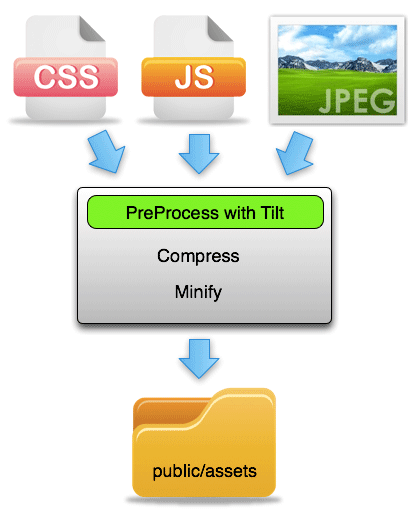
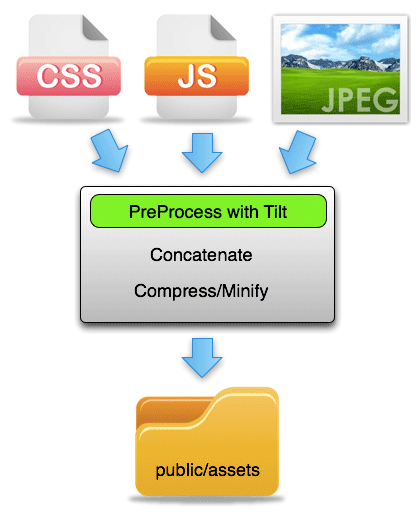
Site updated at 2012-04-24 19:55:55 UTC

diff --git a/blog/2012/04/24/asset-pipeline-for-dummies/index.html b/blog/2012/04/24/asset-pipeline-for-dummies/index.html
@@ -83,11 +83,13 @@
     <h1 class="title">Asset Pipeline for Dummies</h1>
     <div class="entry"><p>The Rails asset pipeline is very powerful, but often misunderstood. At the <a href="http://utruby.org">Utah Ruby User Group</a>, most of the attendees aren&#8217;t sure how to use it fully in their Rails app. It&#8217;s considered as one of the <em>magic</em> features that Rails offers. I admit that I was confused as well and took it&#8217;s magic for granted. Not any longer.</p>
 
+<p>I reference the word <em>asset</em> a lot in this article. An asset is a file that is to be included in your Rails application (JavaScript, CSS, Image, etc).</p>
+
 <p><strong>In this article, I want to simplify the asset pipeline so it is better understood.</strong></p>
 
 <h2>Purpose</h2>
 
-<p>The asset pipeline has three goals: pre-process, compress and minify assets into one central path. Or in other words, it takes all of your stylesheets, javascript files, images and any other files you want, joins them together when possible, and places them in the public/assets folder.</p>
+<p>The asset pipeline has three goals: preprocess, concatenate and minify assets into one central path. Or in other words, it takes all of your stylesheets, javascript files, images and any other files you want, joins them together when possible, and places them in the public/assets folder.</p>
 
 <h2>Moving Parts</h2>
 
@@ -164,7 +166,12 @@ The asset pipeline is powered by two technologies: <a href="https://github.com/s
 
 <h4>Q: Do I have to use the asset pipeline?</h4>
 
-<p>No. You can place your images into the public folder directly.</p>
+<p>No. In Rails 3.1, the asset pipeline is enabled by default. It can be disabled in <code>config/application.rb</code> by putting this line inside the application class definition:</p>
+
+<figure class='code'><figcaption><span></span></figcaption><div class="highlight"><table><tr><td class="gutter"><pre class="line-numbers"><span class='line-number'>1</span>
+</pre></td><td class='code'><pre><code class='ruby'><span class='line'><span class="n">config</span><span class="o">.</span><span class="n">assets</span><span class="o">.</span><span class="n">enabled</span> <span class="o">=</span> <span class="kp">false</span>
+</span></code></pre></td></tr></table></div></figure>
+
 
 <h4>Q: What happens if there are duplicate file names in different asset folders?</h4>
 
@@ -234,6 +241,20 @@ The asset pipeline is powered by two technologies: <a href="https://github.com/s
 
 
 <p>This configuration option appears by default in <code>config/environments/production.rb</code>.</p>
+
+<h2>Summary</h2>
+
+<p>As I said before, the asset pipeline has three goals: <em><em>precompile</em>, </em>concatenate<em> and </em>minify* assets.</p>
+
+<p><strong>Precompilation</strong> let&#8217;s you use higher-level languages to create actual assets (for example, Sass to CSS).</p>
+
+<p><strong>Concatenation</strong> is very important in the production environment. It can reduce the number of requests that a browser makes to render a web page, which leads to faster load time.</p>
+
+<p><strong>Minification</strong> takes out the extra whitespace and comments from your assets. This allows for smaller asset file size, which leads to faster load times.</p>
+
+<p>I strongly suggest learning more about the asset pipeline by going to the <a href="http://guides.rubyonrails.org/asset_pipeline.html">Rails documentation</a>. Ryan Bates also two excellent Railscasts on <a href="http://railscasts.com/episodes/341-asset-pipeline-in-production">Understanding the Asset Pipeline</a> and <a href="http://railscasts.com/episodes/341-asset-pipeline-in-production">Asset Pipeline in Production</a>.</p>
+
+<p>Feel free to hop on the #urug channel on Freenode to chat with me anytime.</p>
 </div>
     <div class="meta">
         <div class="date">

diff --git a/index.html b/index.html
@@ -87,11 +87,13 @@
     <div class="entry">
         <p>The Rails asset pipeline is very powerful, but often misunderstood. At the <a href="http://utruby.org">Utah Ruby User Group</a>, most of the attendees aren&#8217;t sure how to use it fully in their Rails app. It&#8217;s considered as one of the <em>magic</em> features that Rails offers. I admit that I was confused as well and took it&#8217;s magic for granted. Not any longer.</p>
 
+<p>I reference the word <em>asset</em> a lot in this article. An asset is a file that is to be included in your Rails application (JavaScript, CSS, Image, etc).</p>
+
 <p><strong>In this article, I want to simplify the asset pipeline so it is better understood.</strong></p>
 
 <h2>Purpose</h2>
 
-<p>The asset pipeline has three goals: pre-process, compress and minify assets into one central path. Or in other words, it takes all of your stylesheets, javascript files, images and any other files you want, joins them together when possible, and places them in the public/assets folder.</p>
+<p>The asset pipeline has three goals: preprocess, concatenate and minify assets into one central path. Or in other words, it takes all of your stylesheets, javascript files, images and any other files you want, joins them together when possible, and places them in the public/assets folder.</p>
 
 <h2>Moving Parts</h2>
 
@@ -168,7 +170,12 @@ The asset pipeline is powered by two technologies: <a href="https://github.com/s
 
 <h4>Q: Do I have to use the asset pipeline?</h4>
 
-<p>No. You can place your images into the public folder directly.</p>
+<p>No. In Rails 3.1, the asset pipeline is enabled by default. It can be disabled in <code>config/application.rb</code> by putting this line inside the application class definition:</p>
+
+<figure class='code'><figcaption><span></span></figcaption><div class="highlight"><table><tr><td class="gutter"><pre class="line-numbers"><span class='line-number'>1</span>
+</pre></td><td class='code'><pre><code class='ruby'><span class='line'><span class="n">config</span><span class="o">.</span><span class="n">assets</span><span class="o">.</span><span class="n">enabled</span> <span class="o">=</span> <span class="kp">false</span>
+</span></code></pre></td></tr></table></div></figure>
+
 
 <h4>Q: What happens if there are duplicate file names in different asset folders?</h4>
 
@@ -238,6 +245,20 @@ The asset pipeline is powered by two technologies: <a href="https://github.com/s
 
 
 <p>This configuration option appears by default in <code>config/environments/production.rb</code>.</p>
+
+<h2>Summary</h2>
+
+<p>As I said before, the asset pipeline has three goals: <em><em>precompile</em>, </em>concatenate<em> and </em>minify* assets.</p>
+
+<p><strong>Precompilation</strong> let&#8217;s you use higher-level languages to create actual assets (for example, Sass to CSS).</p>
+
+<p><strong>Concatenation</strong> is very important in the production environment. It can reduce the number of requests that a browser makes to render a web page, which leads to faster load time.</p>
+
+<p><strong>Minification</strong> takes out the extra whitespace and comments from your assets. This allows for smaller asset file size, which leads to faster load times.</p>
+
+<p>I strongly suggest learning more about the asset pipeline by going to the <a href="http://guides.rubyonrails.org/asset_pipeline.html">Rails documentation</a>. Ryan Bates also two excellent Railscasts on <a href="http://railscasts.com/episodes/341-asset-pipeline-in-production">Understanding the Asset Pipeline</a> and <a href="http://railscasts.com/episodes/341-asset-pipeline-in-production">Asset Pipeline in Production</a>.</p>
+
+<p>Feel free to hop on the #urug channel on Freenode to chat with me anytime.</p>
 
         
         
